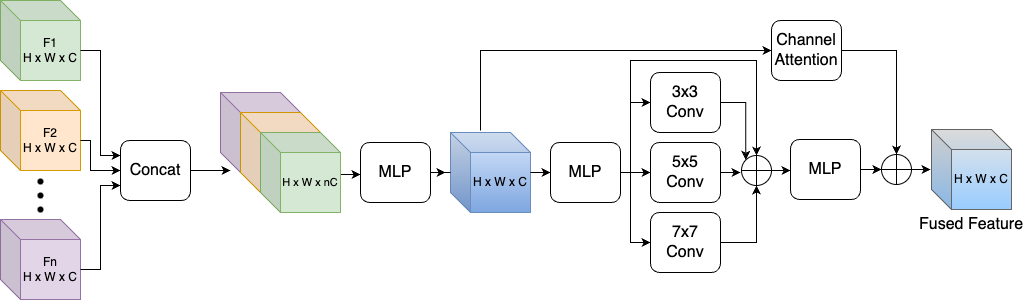
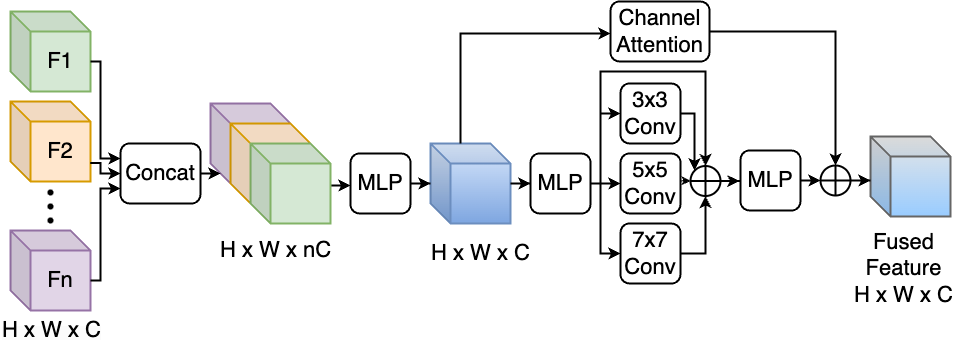
Update illustrations, configs and README

Changed region(s): [[0.0, 0.0, 1.0, 1.0], [0.637, 0.9, 0.6977, 0.93], [0.7887, 0.66, 0.819, 0.69]]

diff --git a/README.md b/README.md
@@ -1,6 +1,6 @@
 <div align="center"> 
 
-## MMSFormer: Multimodal Material Segmentation with Multimodal Segmentation Transformer
+## MMSFormer: Multimodal Transformer for Material Segmentation
 
 </div>
 
@@ -19,20 +19,20 @@
 
 ## Introduction
 
-Leveraging information across diverse modalities is known to enhance performance on segmentation tasks. However, effectively fusing information from different modalities remains challenging due to the unique characteristics of each modality. In this paper, we propose a novel fusion strategy that can effectively fuse information from four different modalities: RGB, AoLP, DoLP and NIR. We also propose a new model named **M**ulti-**M**odal **S**egmentation Trans**Former** **(MMSFormer)** that incorporates the proposed fusion strategy to perform multimodal material segmentation task. MMSFormer achieves **52.05\% mIoU** outperforming the current state-of-the-art by 0.51\% on MCubeS dataset. Starting from RGB-only, performance gradually increases as we add new modalities. It shows significant improvement in detecting **gravel (+10.4\%)** and **human(+9.1\%)** classes. Ablation studies show that different modules in the fusion block are crucial for overall model performance. Our code and pretrained models are publicly available for reference. 
+Leveraging information across diverse modalities is known to enhance performance on multimodal segmentation tasks. However, effectively fusing information from different modalities remains challenging due to the unique characteristics of each modality. In this paper, we propose a novel fusion strategy that can effectively fuse information from different combinations of four different modalities: RGB, Angle of Linear Polarization (AoLP), Degree of Linear Polarization (DoLP) and Near-Infrared (NIR). We also propose a new model named **M**ulti-**M**odal **S**egmentation Trans**Former** **(MMSFormer)** that incorporates the proposed fusion strategy to perform multimodal material segmentation. MMSFormer achieves 52.05% mIoU outperforming the current state-of-the-art on Multimodal Material Segmentation (MCubeS) dataset. For instance, our method provides significant improvement in detecting gravel (+10.4%) and human (+9.1%) classes. Ablation studies show that different modules in the fusion block are crucial for overall model performance. Furthermore, our ablation studies also highlight the capacity of different input modalities to improve performance in the identification of different types of materials. Our code and pretrained models are publicly available for reference. 
 
 For more details, please check our [arXiv]() paper.
 
 ## Updates
-- [x] 08/2023, init repository.
-- [x] 08/2023, release the code for MMSFormer.
-- [x] 08/2023, release MMSFormer model weights. Download from [**GoogleDrive**](https://drive.google.com/drive/folders/1gYciyPj5VvE1AJcuYA8JGmWh61OF3asH?usp=sharing).
+- [x] 09/2023, init repository.
+- [x] 09/2023, release the code for MMSFormer.
+- [x] 09/2023, release MMSFormer model weights. Download from [**GoogleDrive**](https://drive.google.com/drive/folders/1gYciyPj5VvE1AJcuYA8JGmWh61OF3asH?usp=sharing).
 
 ## MMSFormer model
 
 <div align="center"> 
 
-![MMSFormer](figs/MMSFormer-Overall.png)
+![MMSFormer](figs/MMSFormer-Overall-2.png)
 **Figure:** Overall architecture of MMSFormer model.
 
 ![Fusion Block](figs/MMSFormer-Fusion.png)
@@ -45,7 +45,6 @@ First, create and activate the environment using the following commands:
 ```bash
 conda env create -f environment.yaml
 conda activate mmsformer
-# Optional: install apex follow: https://github.com/NVIDIA/apex
 ```
 
 ## Data preparation
@@ -85,7 +84,7 @@ checkpoints/pretrained/segformer
 └── mit_b4.pth
 ```
 
-To train MMSFormer model, please change the `configs/mcubes_rgbadn.yaml` file with appropriate path and hyper-parameters. 
+To train MMSFormer model, please change the `configs/mcubes_rgbadn.yaml` file with appropriate paths and hyper-parameters. 
 
 ```bash
 cd path/to/MMSFormer
@@ -127,6 +126,7 @@ This repository is under the Apache-2.0 license. For commercial use, please cont
 If you use MMSFormer model, please cite the following works:
 
 - **MMSFormer** [[**PDF**]()]
+*TBD*
 <!-- ```
 @article{zhang2023delivering,
   title={Delivering Arbitrary-Modal Semantic Segmentation},
@@ -137,7 +137,7 @@ If you use MMSFormer model, please cite the following works:
 ``` -->
 
 ## Acknowledgements
-Our codebase is based on the following Github repositories. Thanks for the public repositories:
+Our codebase is based on the following Github repositories. Thanks to the following public repositories:
 - [DELIVER](https://github.com/jamycheung/DELIVER)
 - [RGBX-semantic-segmentation](https://github.com/huaaaliu/RGBX_Semantic_Segmentation)
 - [Semantic-segmentation](https://github.com/sithu31296/semantic-segmentation)
